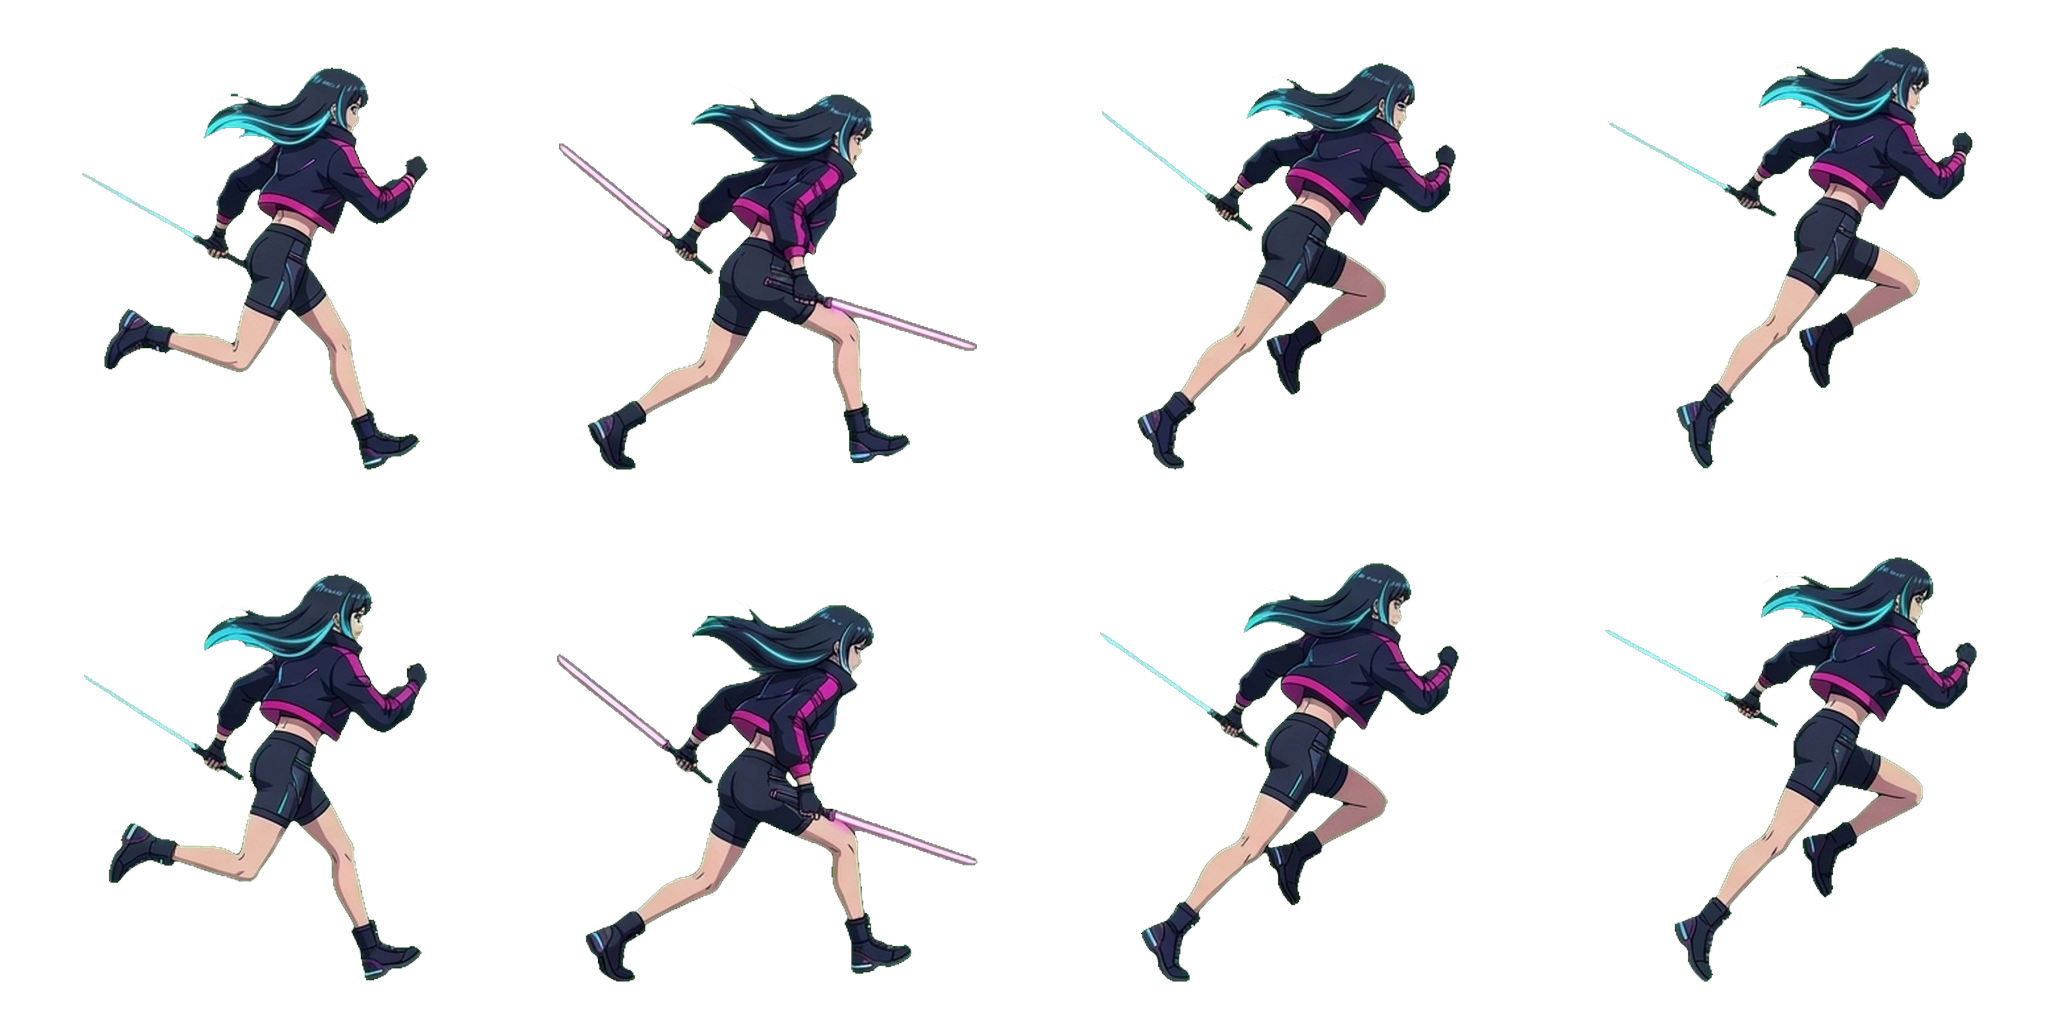
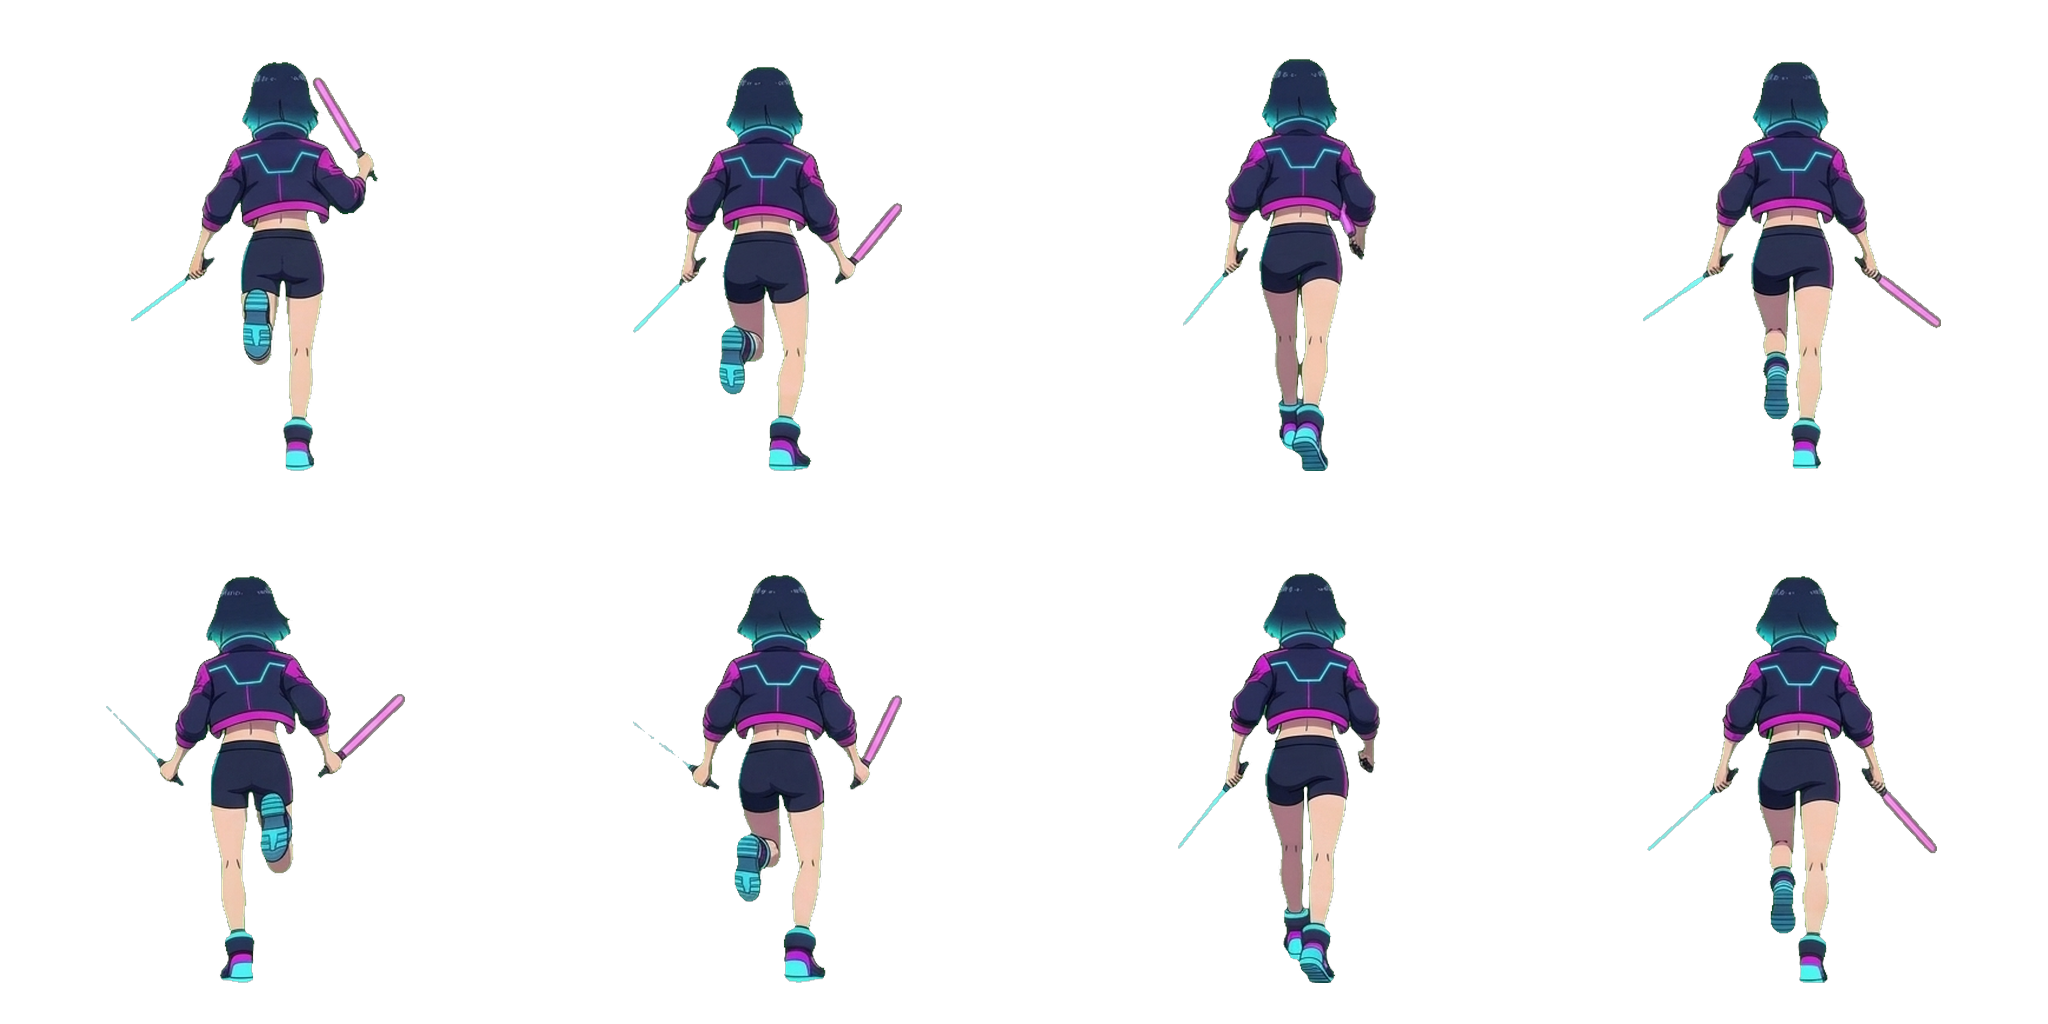
fix: pure rear-view 8-frame Luna sprint sheet & remove artificial head wobble

diff --git a/js/game3d.js b/js/game3d.js
@@ -485,8 +485,8 @@
         return t;
       };
       this.lunaSheets = {
-        run:   loadSheetTex('./assets/characters/runner_luna_run_sheet.png'),
-        slash: loadSheetTex('./assets/characters/runner_luna_slash_sheet.png')
+        run:   loadSheetTex('./assets/characters/runner_luna_run_sheet.png?v=2'),
+        slash: loadSheetTex('./assets/characters/runner_luna_slash_sheet.png?v=2')
       };
       this.currentRunnerPose = 'run1';
       this.lastSlashPose = 'slash_l';
@@ -701,8 +701,12 @@
       if (this.runnerHoverMat) this.runnerHoverMat.color.setHex(activeStickHex);
       this.currentRunnerPose = 'run1';
       if (this.runnerSpriteMat && this.runnerPoseTextures) {
-        const set = this.runnerPoseTextures[this.charSpec.id] || this.runnerPoseTextures.luna;
-        this.runnerSpriteMat.map = set.run1;
+        if (this.charSpec.id === 'luna' && this.lunaSheets && this.lunaSheets.run) {
+          this.runnerSpriteMat.map = this.lunaSheets.run;
+        } else {
+          const set = this.runnerPoseTextures[this.charSpec.id] || this.runnerPoseTextures.luna;
+          this.runnerSpriteMat.map = set.run1;
+        }
         this.runnerSpriteMat.needsUpdate = true;
       }
 
@@ -1091,8 +1095,7 @@
       this.runnerGroup.rotation.z *= Math.pow(0.08, dt);
 
       const stridePhase = songTime * (this.song.bpm / 60) * Math.PI * 2;
-      const strideHop = Math.abs(Math.sin(stridePhase));
-      this.runnerGroup.position.y = 0.05 + strideHop * 0.13;
+      this.runnerGroup.position.y = 0.05;
       this.leftLeg.rotation.x = Math.sin(stridePhase) * 0.65;
       this.rightLeg.rotation.x = -Math.sin(stridePhase) * 0.65;
 
@@ -1109,13 +1112,13 @@
       // 8-Frame (4x2) Smooth Sprite-Sheet State Machine for Luna + 5-Pose Fallback for Kai/Aria
       if (this.runnerSprite && this.runnerSpriteMat && this.runnerPoseTextures) {
         const poseSet = this.runnerPoseTextures[this.charSpec.id] || this.runnerPoseTextures.luna;
-        const useLunaSheet = this.charSpec.id === 'luna' && this.lunaSheets && this.lunaSheets.run && this.lunaSheets.run.image;
+        const useLunaSheet = this.charSpec.id === 'luna' && this.lunaSheets && this.lunaSheets.run;
         if (useLunaSheet) {
           const isSlashing = this.slashAnimTimer > 0;
           const sheetTex = isSlashing ? this.lunaSheets.slash : this.lunaSheets.run;
           const frameIdx = isSlashing
             ? Math.min(7, Math.floor(slashProg * 8))
-            : Math.floor(songTime * (this.song.bpm / 60) * 4) % 8;
+            : Math.floor(songTime * (this.song.bpm / 60) * 6) % 8;
           const col = frameIdx % 4;
           const row = Math.floor(frameIdx / 4);
           sheetTex.repeat.set(0.25, 0.5);
@@ -1136,16 +1139,13 @@
             this.runnerSpriteMat.needsUpdate = true;
           }
         }
-        const strideSquash = Math.cos(stridePhase * 2) * 0.055;
-        const baseScale = 3.35 + slashPunch * 0.24;
-        const sx = baseScale * (1 + strideSquash + recoilRatio * 0.09);
-        const sy = baseScale * (1 - strideSquash - recoilRatio * 0.08);
+        // Clean steady head & torso during sprint (ZERO artificial head wobble); crisp lunge only on slash/miss
+        const baseScale = 3.35 + slashPunch * 0.18;
+        const sx = baseScale * (1 + recoilRatio * 0.08);
+        const sy = baseScale * (1 - recoilRatio * 0.06);
         this.runnerSprite.scale.set(sx, sy, 1);
-        this.runnerSprite.position.z = -slashPunch * 0.42 + recoilRatio * 0.34;
-        const slashTilt = this.slashAnimTimer > 0
-          ? (this.lastSlashPose === 'slash_l' ? 0.12 : (this.lastSlashPose === 'slash_r' ? -0.12 : 0)) * slashPunch
-          : Math.sin(stridePhase) * 0.032;
-        this.runnerSpriteMat.rotation = this.runnerGroup.rotation.z * 0.5 + slashTilt + recoilRatio * 0.16;
+        this.runnerSprite.position.z = -slashPunch * 0.36 + recoilRatio * 0.28;
+        this.runnerSpriteMat.rotation = this.runnerGroup.rotation.z * 0.28;
         if (recoilRatio > 0) {
           this.runnerSpriteMat.color.setHex(0xff7a90);
         } else if (this.isFever) {

diff --git a/js/app.js b/js/app.js
@@ -80,6 +80,8 @@
       './assets/characters/char_aria.png',
       './assets/characters/runner_luna_run1.png',
       './assets/characters/runner_luna_run2.png',
+      './assets/characters/runner_luna_run_sheet.png?v=2',
+      './assets/characters/runner_luna_slash_sheet.png?v=2',
       './assets/characters/runner_luna_slash_l.png',
       './assets/characters/runner_luna_slash_r.png',
       './assets/characters/runner_luna_slash_x.png',
